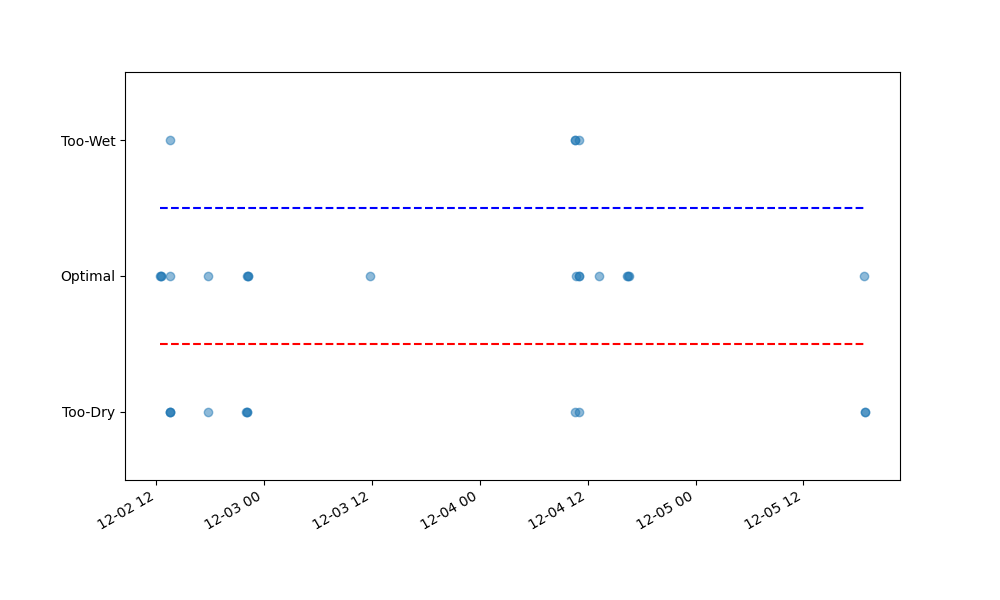
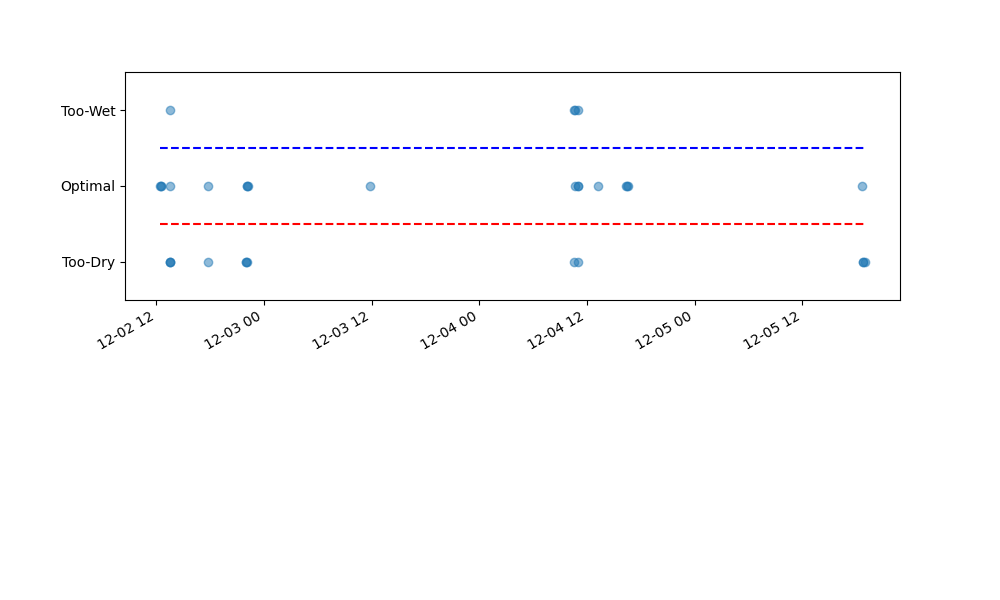
Update

diff --git a/format_index.py b/format_index.py
@@ -24,8 +24,8 @@ def get_moisture_data():
 
     plt.ylim((-0.25, 1.25))
     plt.gca().set_yticklabels(["Too-Dry" if y == 0 else ("Optimal" if y == 0.5 else ("Too-Wet" if y == 1 else "")) for y in current_values])
-
     plt.gcf().autofmt_xdate()
+    plt.subplots_adjust(bottom=.5)
 
     plt.savefig('moisture-trend.png')
     current_moisture = ("low", "optimal", 'high')[int(2 * y[-1])]
